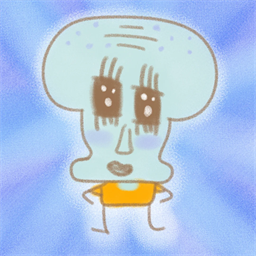
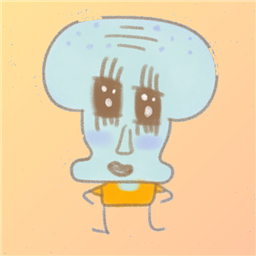
feat: 图标背景改为暖色渐变，与青蓝主体拉开对比
- 背景由蓝紫渐变替换为奶油黄->杏色暖色渐变
- 角色主体保持不变，favicon 版本号升至 v=9

diff --git a/frontend/index.html b/frontend/index.html
@@ -4,7 +4,7 @@
   <meta charset="UTF-8">
   <meta name="viewport" content="width=device-width, initial-scale=1.0">
   <title>Horizon Docs - 轻量级文档编辑器</title>
-  <link rel="icon" type="image/png" href="/horizon-icon.png?v=8" />
+  <link rel="icon" type="image/png" href="/horizon-icon.png?v=9" />
 </head>
 <body>
   <div id="app"></div>
